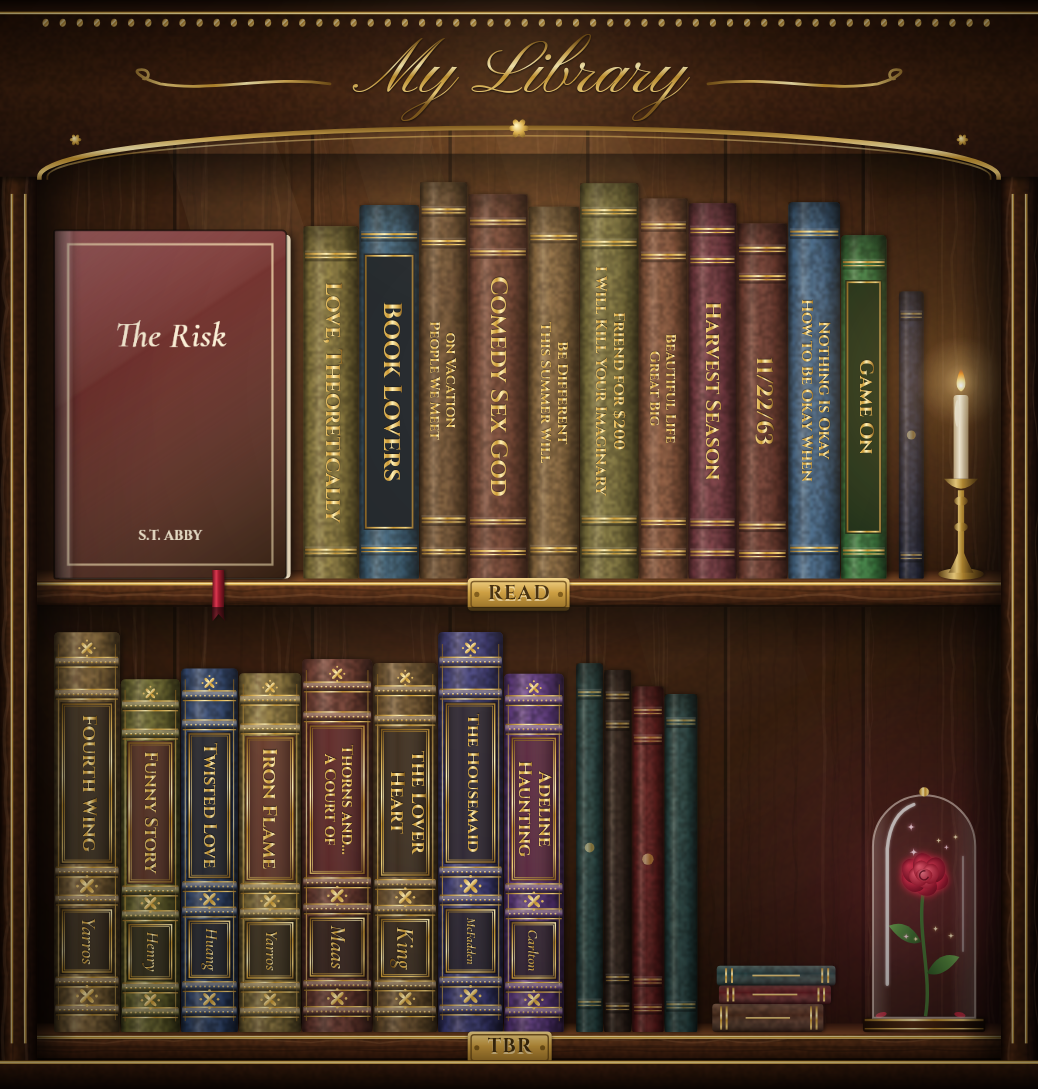
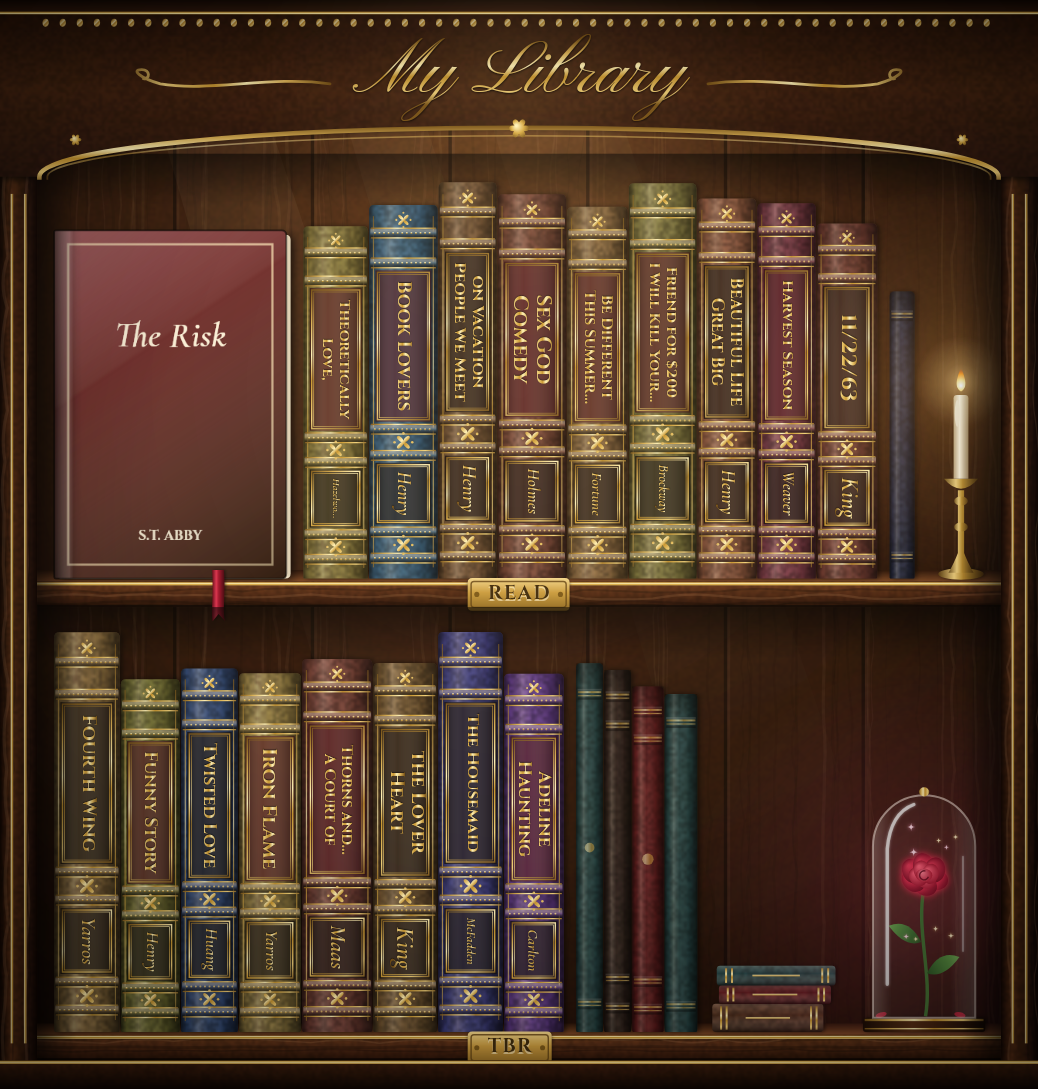
Use tooled spines on every enchanted shelf
Claude-Session: https://claude.ai/code/session_01DFpaGPqchzARfTBeW4za7c

Changed region(s): [[0.2775, 0.1561, 0.894, 0.5308]]

diff --git a/enchanted-library-widget/EnchantedLibrary.js b/enchanted-library-widget/EnchantedLibrary.js
@@ -27,7 +27,7 @@ const CONFIG = {
   fillEmptySpace: true,              // pad shelves with untitled antique volumes
   showRose: true,                    // enchanted: the rose under glass
   showCandle: true,                  // enchanted: a lit brass candlestick
-  ornateSpines: "tbr",               // enchanted: tooled spines with author labels: "tbr", "all" or "none"
+  ornateSpines: "all",               // enchanted: tooled spines with author labels: "all", "tbr" or "none"
   showPlant: true,                   // cozy: potted plant and trailing ivy
   showLights: true,                  // cozy: fairy lights under the shelves
   showLeaves: true,                  // cozy: autumn leaves on the shelves

diff --git a/enchanted-library-widget/tools/preview.js b/enchanted-library-widget/tools/preview.js
@@ -29,7 +29,7 @@ const SIZES = {
 const CONFIG = {
   theme: process.env.THEME || "enchanted", libraryName: "My Library", fillEmptySpace: true,
   showRose: true, showCandle: true, showPlant: true, showLights: true, showLeaves: true,
-  showLamp: true, showClock: true, showLabels: true, ornateSpines: process.env.ORNATE || "tbr",
+  showLamp: true, showClock: true, showLabels: true, ornateSpines: process.env.ORNATE || "all",
   readingShelf: "currently-reading",
 };
 

diff --git a/enchanted-library-widget/README.md b/enchanted-library-widget/README.md
@@ -4,7 +4,7 @@ An iPhone home-screen widget for the [Scriptable](https://scriptable.app) app th
 
 - **Cozy**: floating wooden shelves on a cream cable-knit background, with fairy lights, autumn leaves, a potted plant and trailing ivy. Your books mix face-out covers with spines made from each cover's colors.
 - **Rustic**: a weathered wood-plank wall with slim shelves, brass shelf labels, a glowing table lamp and a brass alarm clock. Books stand as spines with the title and author, and each shelf has a brass label.
-- **Enchanted** (the default): a candle-lit, dark-wood library inspired by the Beast's library in *Beauty and the Beast*, with an arched gilded bookcase, leather-bound spines, a brass candlestick and the rose under glass. On the large widget, the TBR shelf uses finely tooled spines with gilt fleurons and separate title and author labels.
+- **Enchanted** (the default): a candle-lit, dark-wood library inspired by the Beast's library in *Beauty and the Beast*, with an arched gilded bookcase, leather-bound spines, a brass candlestick and the rose under glass. Its spines are finely tooled with gilt fleurons and separate title and author labels.
 
 Either way:
 
@@ -48,7 +48,7 @@ Edit the `CONFIG` block at the top of the script:
 | `libraryName` | Enchanted only: script lettering on the large widget's crown (`"My Library"`) |
 | `fillEmptySpace` | `false` leaves empty shelf space instead of antique filler books |
 | `showRose`, `showCandle` | Enchanted only: `false` hides the rose or the candlestick |
-| `ornateSpines` | Enchanted only: which shelves get the tooled spines with author labels: `"tbr"` (the second shelf), `"all"` or `"none"` |
+| `ornateSpines` | Enchanted only: which shelves get the tooled spines with author labels: `"all"` (the default), `"tbr"` (only the second shelf) or `"none"` |
 | `showPlant`, `showLights`, `showLeaves` | Cozy only: `false` hides the plant and ivy, the fairy lights, or the autumn leaves |
 | `showLamp`, `showClock` | Rustic only: `false` hides the lamp or the clock |
 | `showLabels` | `false` hides the brass shelf labels (rustic, and the large enchanted widget) |
